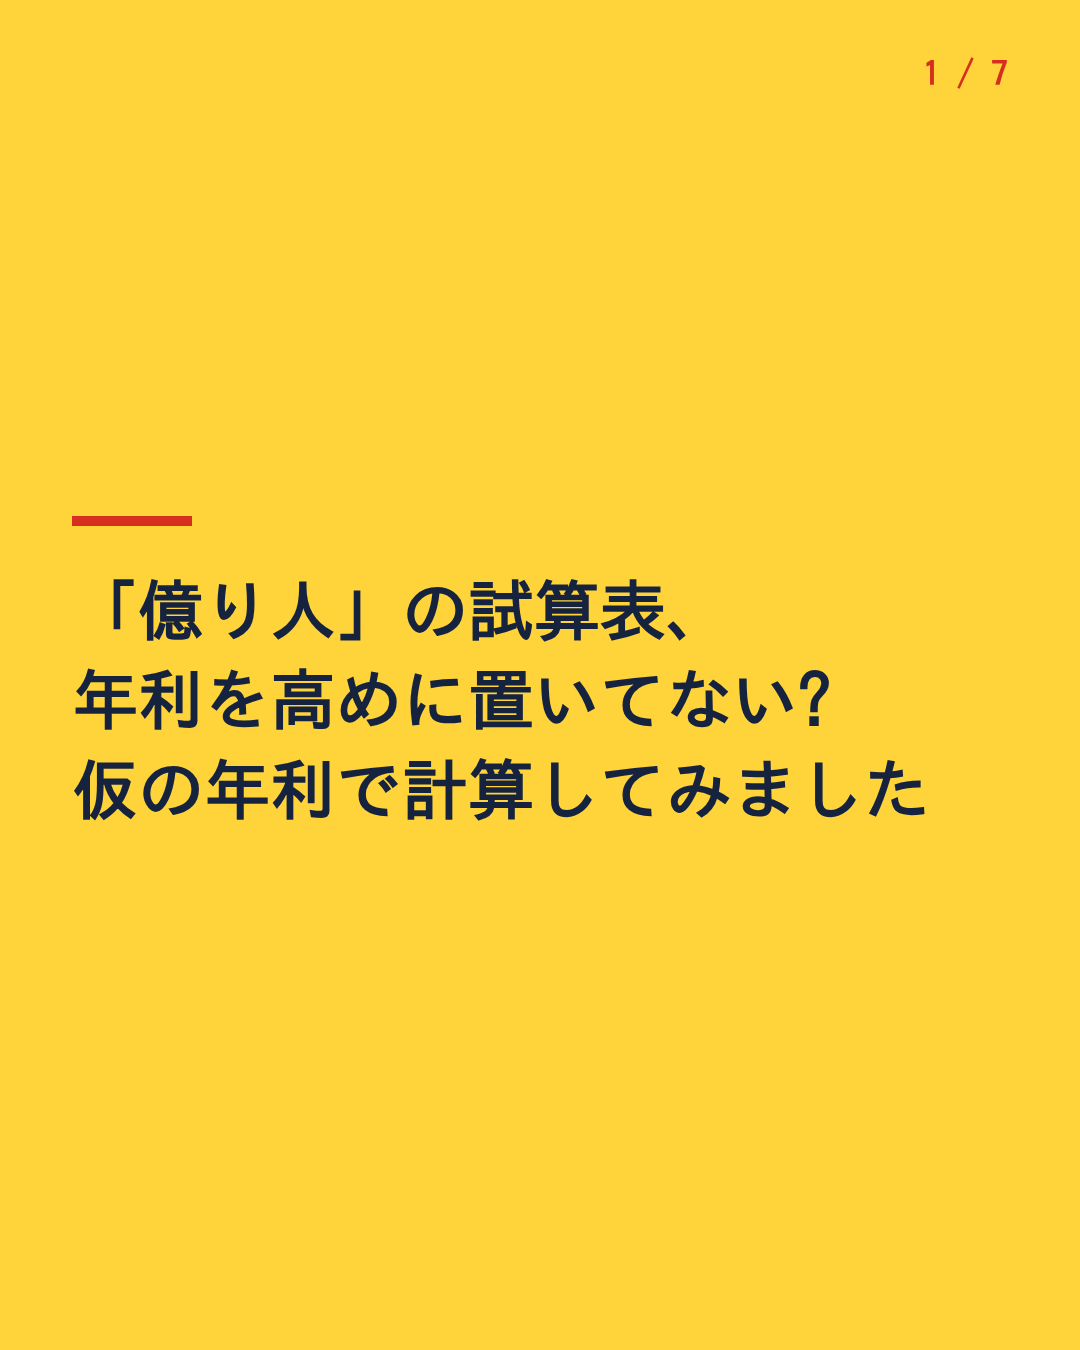
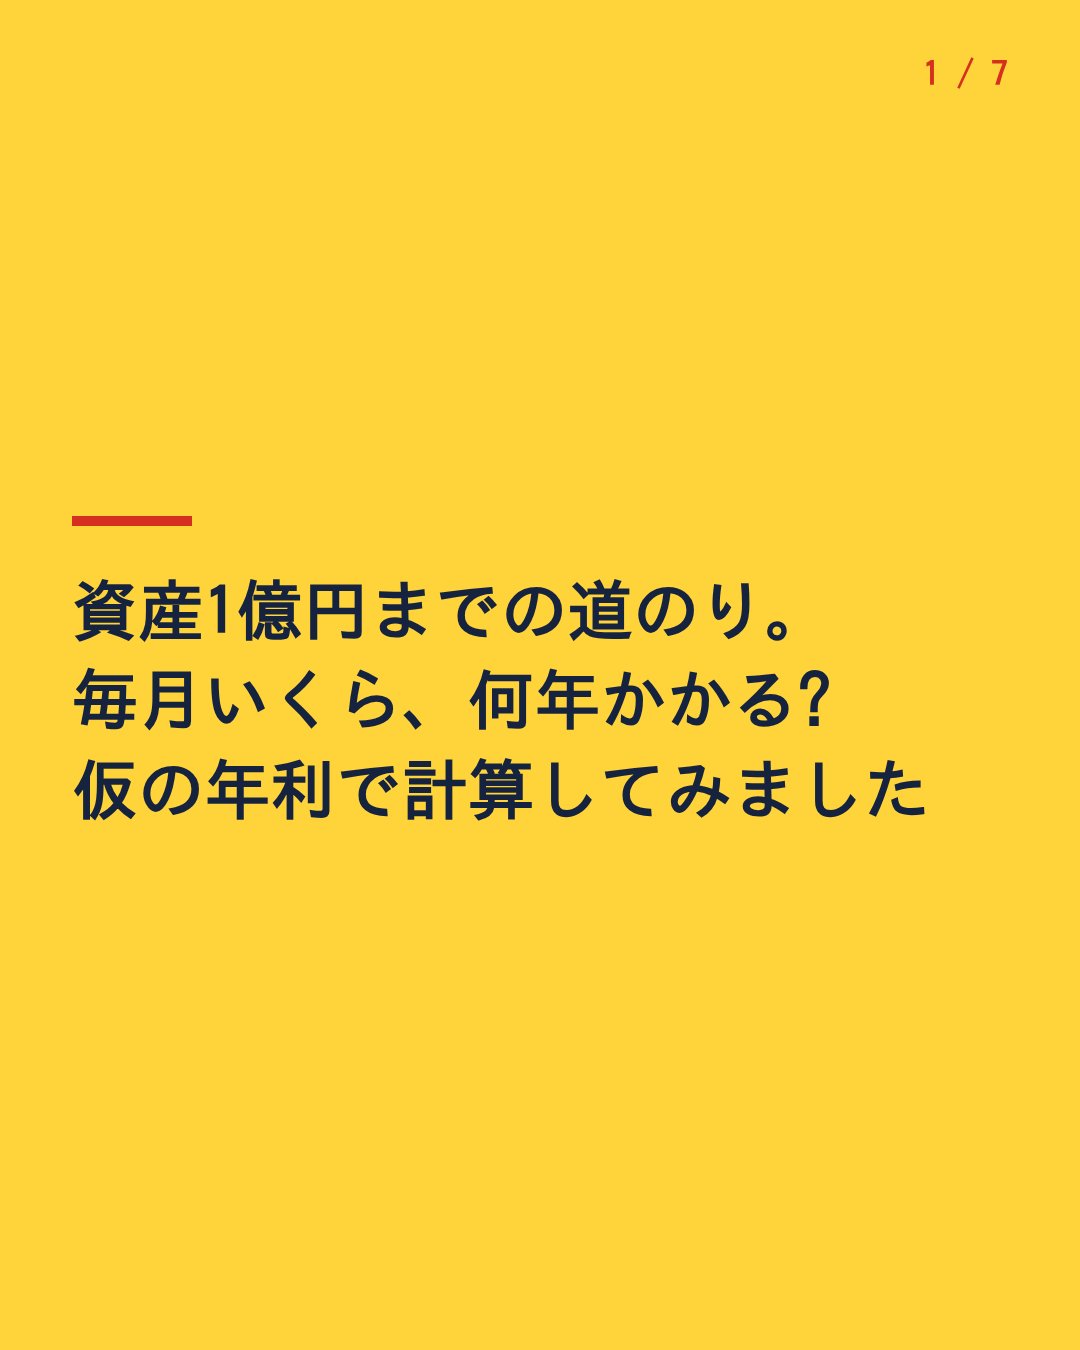
2026-11-04_001: simpler title for broad readers (owner feedback); policy note
Claude-Session: https://claude.ai/code/session_019jxzMkHZEL8EPC28xkVZW1

Changed region(s): [[0.0611, 0.4044, 0.7333, 0.56]]

diff --git a/runs/2026-11-04_001/06_sns.md b/runs/2026-11-04_001/06_sns.md
@@ -1,6 +1,6 @@
-# SNS投稿案: 「億り人」の試算表、年利を高めに置いてない?
+# SNS投稿案: 資産1億円までの道のり。毎月いくら、何年かかる?
 ## X投稿案
-- 「億り人」の試算表、年利を高めに置いてない? そんな記事を書きました。20年と30年では、毎月の額が約1.8〜2.3倍違います(年利3〜7%と仮に置いた計算)。年利は予想ではなく、元本割れのおそれもあります。【記事URL】
+- 資産1億円までの道のり。毎月いくら、何年かかる? そんな記事を書きました。20年と30年では、毎月の額が約1.8〜2.3倍違います(年利3〜7%と仮に置いた計算)。年利は予想ではなく、元本割れのおそれもあります。【記事URL】
 - 同じ30年でも、仮の年利が3%なら毎月約17.2万円、7%なら約8.2万円。約2倍の差です。年利は計算の区切りで、保証ではありません。投資には元本割れのおそれがあります。【記事URL】
 - NISAの生涯の非課税枠は1,800万円(金融庁)。1億円を目指す積立は、払い込みだけでこの枠を超えます。5%・30年の仮の計算では、約2,530万円分が課税口座です。投資には元本割れのおそれがあります。【記事URL】
 - 毎月5万円を30年続けた場合の計算は、3%で約2,910万円、5%で約4,160万円、7%で約6,100万円。1億円とは差があります。続けやすい額から見る方法も書きました。仮の年利で、元本割れのおそれがあります。【記事URL】
@@ -32,7 +32,7 @@
 
 ## Instagram投稿案
 カルーセル案(全7枚)
-- 1枚目: 「億り人」の試算表、年利を高めに置いてない? / 仮の年利で計算してみました
+- 1枚目: 資産1億円までの道のり。毎月いくら、何年かかる? / 仮の年利で計算してみました
 - 2枚目: ネットで試算表を見て、数字だけメモして、画面を閉じる / そんな人もいると思います
 - 3枚目: 同じ30年でも、仮の年利で毎月の額が変わる / 3%なら約17.2万円 / 7%なら約8.2万円 / 約2倍の差(税・手数料は入れていない計算)
 - 4枚目: 20年と30年では、毎月の額が何倍違う? / 年利3%:約1.8倍 / 年利5%:約2.0倍 / 年利7%:約2.3倍

diff --git a/config/weekly_policy.md b/config/weekly_policy.md
@@ -169,3 +169,9 @@
 4. 制度名・専門用語は、題の主役にしない(本文で説明する)。どうしても要る場合は「身近な場面+制度名は後ろ」にする。
 5. 数字(3つ・5分)は、確認できるものだけ。煽り・断定・割合の数字は使わない。体験を装わない(「〜した話」は持ち主が実際にした場合だけ)。
 6. 効果は、公開7日後のインプ・PVで experiment_log.md に記録して確かめる。
+
+## タイトルは「始めている人向け」にしない(2026-11-04 持ち主の指摘)
+- 持ち主から、「いつも、すでに始めている人・すでに知っている人向けのタイトルになっている。もっと広く、誰にでも刺さる簡単な言葉で」との指摘。
+- 題には、業界の言葉・俗語・制度名・専門用語(例:億り人・年利・試算表・NISA・複利・検針票)を使わない。**これから始める人・何も知らない人が読んでも、意味が分かる言葉**にする。
+- 例: 『資産1億円までの道のり。毎月いくら、何年かかる?』(○)/『「億り人」の試算表、年利を高めに置いてない?』(×。知っている人向け)。
+- ただし、『誰でもできる』『必ず』『簡単に稼げる』のような、保証や断定の言葉は使わない(未確認の約束になるため)。

diff --git a/runs/2026-11-04_001/author_notes.md b/runs/2026-11-04_001/author_notes.md
@@ -29,3 +29,7 @@
 
 ## 2026-11-04 タイトル決定(持ち主)
 - 持ち主が『億り人を入れる』を選んだ: 「億り人」の試算表、年利を高めに置いてない?(22字)。導入で『億り人』(資産が1億円を超えた人を、投資の世界でこう呼ぶことがある)を説明。本文の核心(年利の置き方で必要な積立額が倍近く変わる)は変えない。
+
+## 2026-11-05 タイトル再変更(持ち主)
+- 持ち主の指摘: 『億り人』『試算表』『年利を高めに置く』は、すでに始めている人・知っている人向け。もっと広く誰にでも刺さる簡単な言葉で、資産1億円までの道のり(ロードマップ)にしてほしい。
+- 新タイトル: 資産1億円までの道のり。毎月いくら、何年かかる?(24字)。『誰でも行ける』とは、保証できないので書かない(『必ず』『誰でも』の断定をしない決まり)。本文の中身(年数と仮の年利で必要額が変わる)は変えない。

diff --git a/runs/2026-11-04_001/05_revised.md b/runs/2026-11-04_001/05_revised.md
@@ -1,4 +1,4 @@
-# 「億り人」の試算表、年利を高めに置いてない?
+# 資産1億円までの道のり。毎月いくら、何年かかる?
 
 【画像:cover.png】
 

diff --git a/runs/2026-11-04_001/READY_TO_PUBLISH.md b/runs/2026-11-04_001/READY_TO_PUBLISH.md
@@ -1,4 +1,4 @@
-# 「億り人」の試算表、年利を高めに置いてない?
+# 資産1億円までの道のり。毎月いくら、何年かかる?
 
 【画像:cover.png】
 
